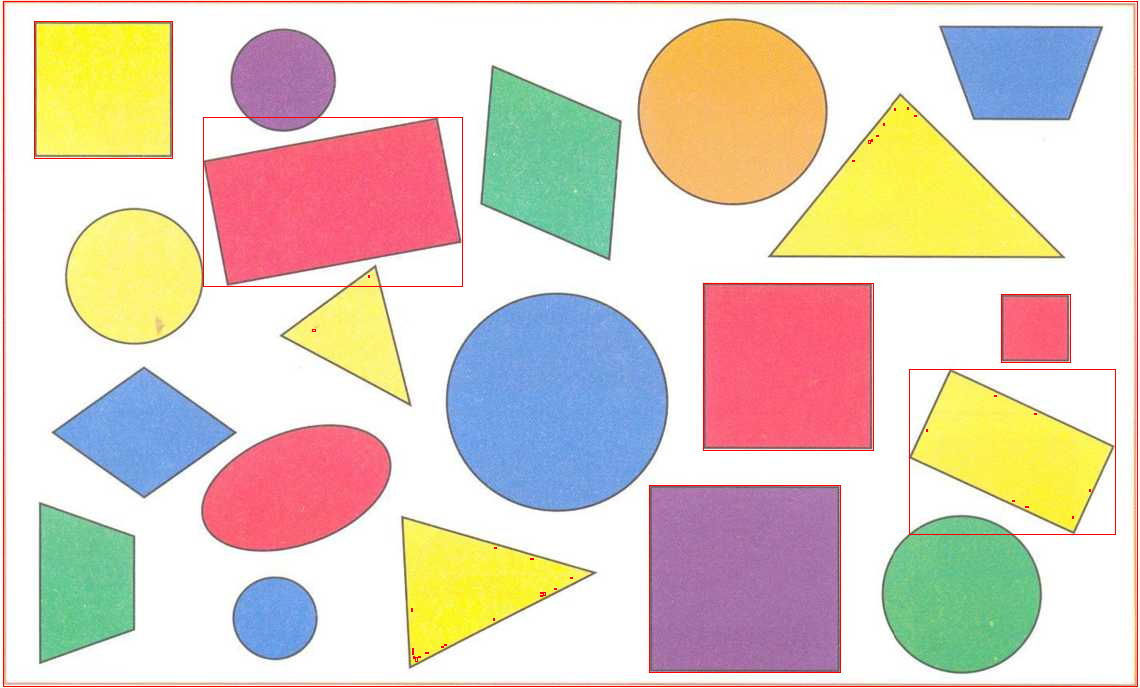
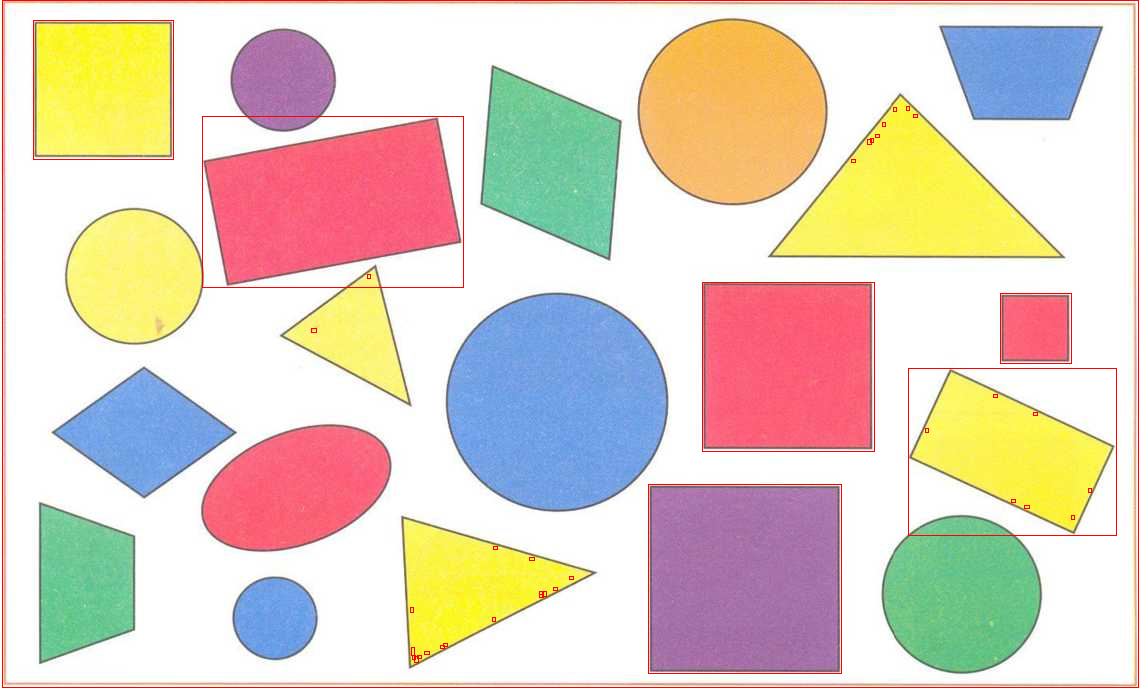
Added the summary area computing of the found rectangles

diff --git a/lab.m b/lab.m
@@ -7,6 +7,7 @@ input_image_black_white = ~im2bw(input_image_grayscale, input_image_threshold);
 regions = bwlabel(input_image_black_white);
 properts = regionprops(regions, "all");
 final_image = input_image;
+summary_area = 0;
 for j = 1:numel(properts)
     if(properts(j).Area == 1)
         continue;
@@ -27,10 +28,11 @@ for j = 1:numel(properts)
     endif
     property_buffer = properts(j);
     for i = 1:numel(property_buffer)
-        y = round(property_buffer(i).BoundingBox(:, 1));
-        x = round(property_buffer(i).BoundingBox(:, 2));
-        h = round(property_buffer(i).BoundingBox(:, 3));
-        w = round(property_buffer(i).BoundingBox(:, 4));
+        summary_area += property_buffer(i).FilledArea;
+        y = round(property_buffer(i).BoundingBox(:, 1))-1;
+        x = round(property_buffer(i).BoundingBox(:, 2))-1;
+        h = round(property_buffer(i).BoundingBox(:, 3))+2;
+        w = round(property_buffer(i).BoundingBox(:, 4))+2;
         for yi = y:y+h
             final_image(x, yi, 1) = 255;
             final_image(x, yi, 2) = 0;
